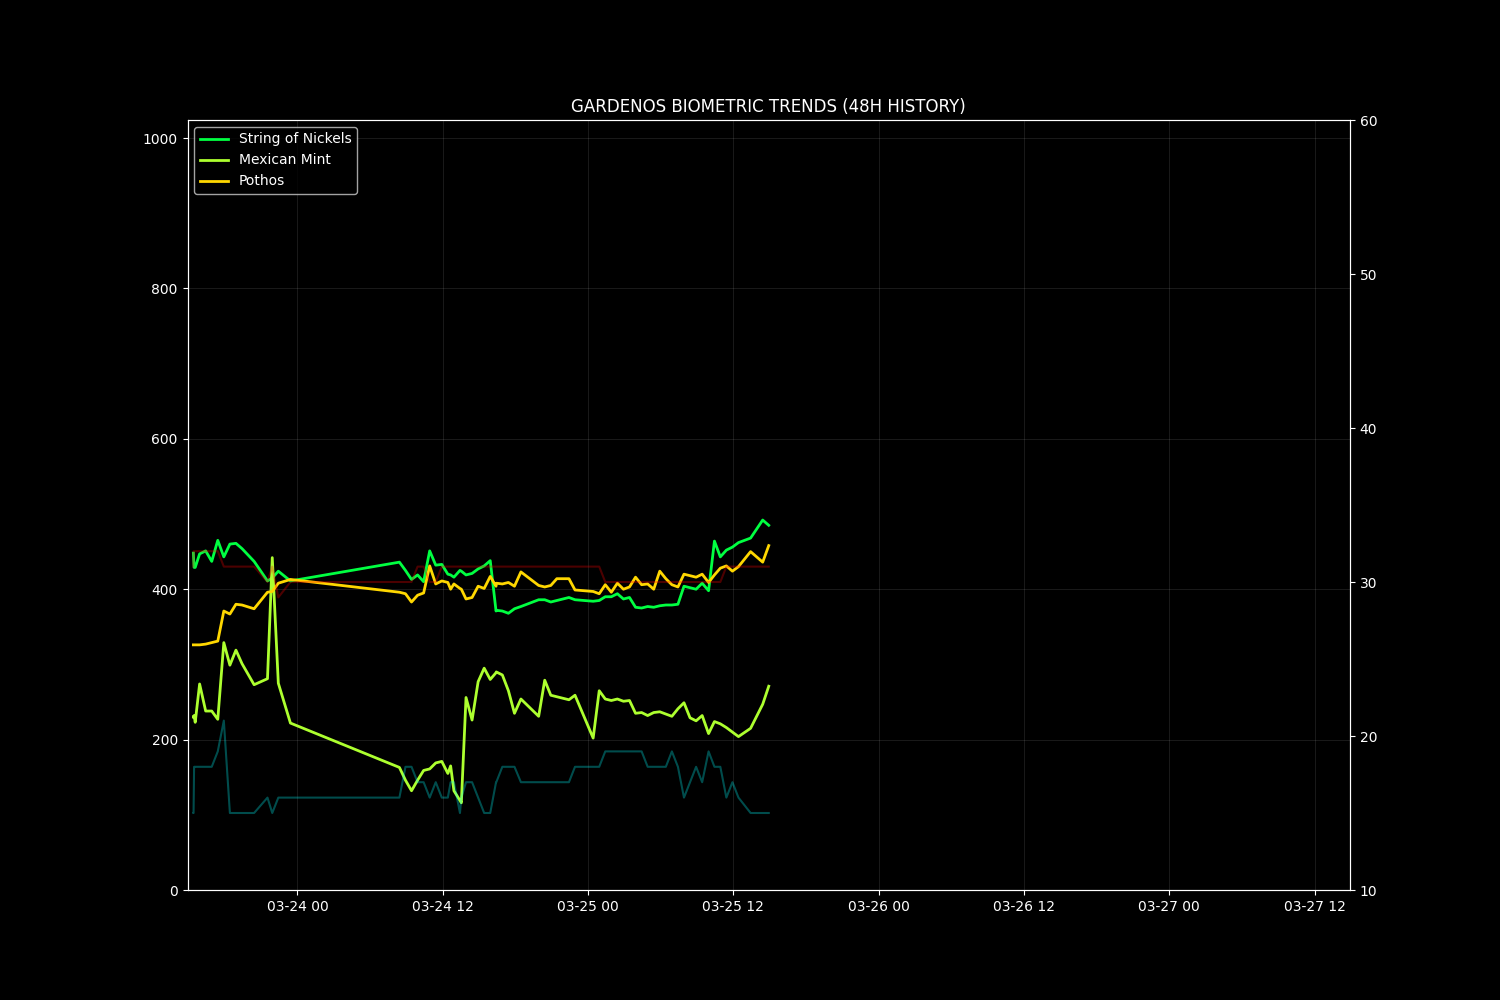
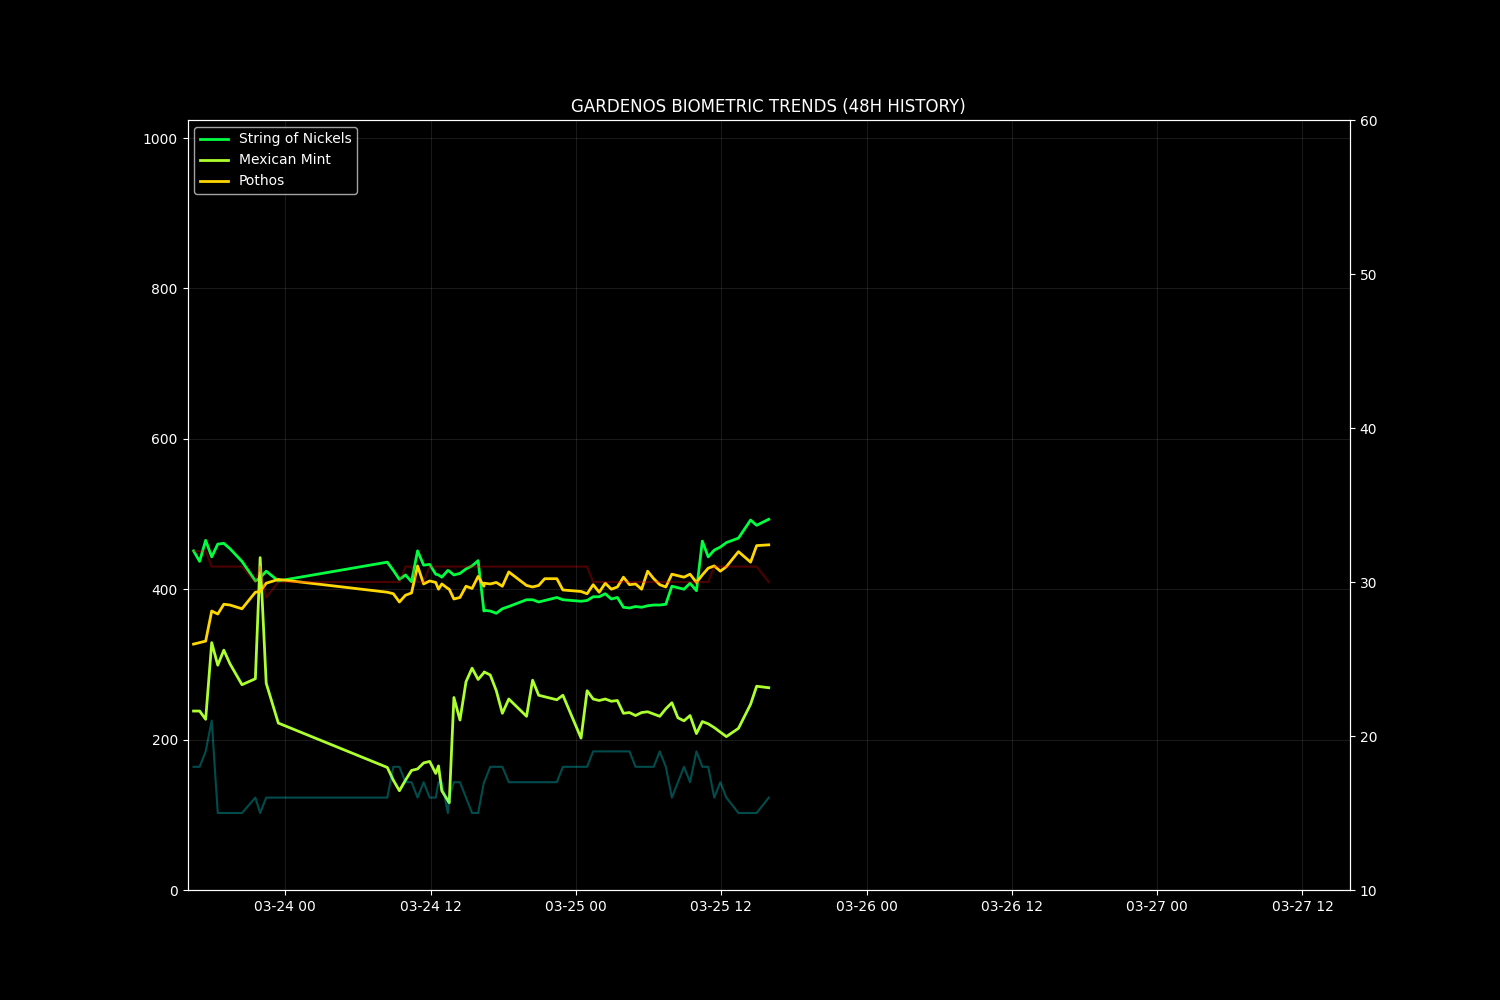
Warden Cycle: 2026-03-25 15:55:30

diff --git a/docs/data/ledger.md b/docs/data/ledger.md
@@ -278,3 +278,17 @@ Action: No immediate watering required. Continue misting schedule. Monitor p4's 
 **Weather Alignment**: Forecast: 26.3°C, 84% humidity, mist. Current: 31.0°C, 16.0% humidity. Plants show good turgidity, indicating effective water retention. Forecast mist and higher humidity are favorable.
 
 **The Warden's Decision**: Verdict: All plants are healthy and well-hydrated. No intervention required. Action: Continue standard monitoring. Prepare for light misting if humidity does not rise as forecasted.
+
+## 2026-03-25 15:03
+
+**Vitality Pulse**: p1: 🟢 NOMINAL (74## 2026-03-25 15:03
+
+**Vitality Pulse**: p1: 🟢 NOMINAL (74% wet) [visual: turgid]; p2: 🟢 NOMINAL (72% wet) [visual: turgid]; p3: 🟢 NOMINAL (62% wet) [visual: turgid]; p4: 🟢 NOMINAL (72% wet) [shared sensor]
+
+**The Biome Discovery**: Soil surface shows no crusting, moisture appears even. Shadow angles consistent with afternoon light (3:03 PM). Sensor wires are secured and not causing any physical stress to plants.
+
+**Growth Momentum**: Apical Leans: No significant apical lean observed in p1-p3; all exhibit upright growth. Stasis Points: No new stasis points; growth points remain active. (mm-deltas not measured outside 06:00 AM)
+
+**Weather Alignment**: Forecast: 26.3°C, 84% humidity, mist. Current: 31.0°C, 15.0% humidity. Plants show good turgidity, indicating effective water retention. Forecast mist and higher humidity are favorable.
+
+**The Warden's Decision**: Verdict: All plants are healthy and well-hydrated. No intervention required. Action: Continue standard monitoring. Prepare for light misting if humidity does not rise as forecasted.

diff --git a/docs/data/observer_context.md b/docs/data/observer_context.md
@@ -1,21 +1,21 @@
 # 📝 Garden Observer Context
-**Generated:** 2026-03-25 13:58:02
+**Generated:** 2026-03-25 14:58:01
 
 ## 1. 🌡 Recent Telemetry (Last 12 Readings)
 ```csv
 timestamp,temp,hum,light,p1,p2,p3
-2026-03-25 11:55:28,31.0,17.0,565,456.0,210.0,424.0
-2026-03-25 12:25:28,31.0,16.0,551,462.0,204.0,430.0
 2026-03-25 13:25:28,31.0,15.0,562,468.0,215.0,450.0
+2026-03-25 14:25:29,31.0,15.0,600,492.0,247.0,436.0
+2026-03-25 14:55:28,31.0,15.0,609,485.0,271.0,458.0
 
 ```
 
 ## 2. 📊 Computed Metrics (Last 12 Calculations)
 ```csv
 timestamp,vpd,p1_pct,p1_slope,p2_pct,p2_slope,p3_pct,p3_slope,p4_pct,p4_slope,p5_pct,p5_slope,p6_pct,p6_slope,p1_is_dry,p2_is_dry,p3_is_dry
-2026-03-25 11:55:28,3.729,83.1,,97.9,,71.2,,,,,,,,False,False,False
-2026-03-25 12:25:28,3.774,81.3,,100.0,,69.5,,,,,,,,False,False,False
 2026-03-25 13:25:28,3.819,79.4,,95.7,,63.8,,,,,,,,False,False,False
+2026-03-25 14:25:29,3.819,72.1,,82.0,,67.8,,,,,,,,False,False,False
+2026-03-25 14:55:28,3.819,74.2,,71.7,,61.5,,,,,,,,False,False,False
 
 ```
 
